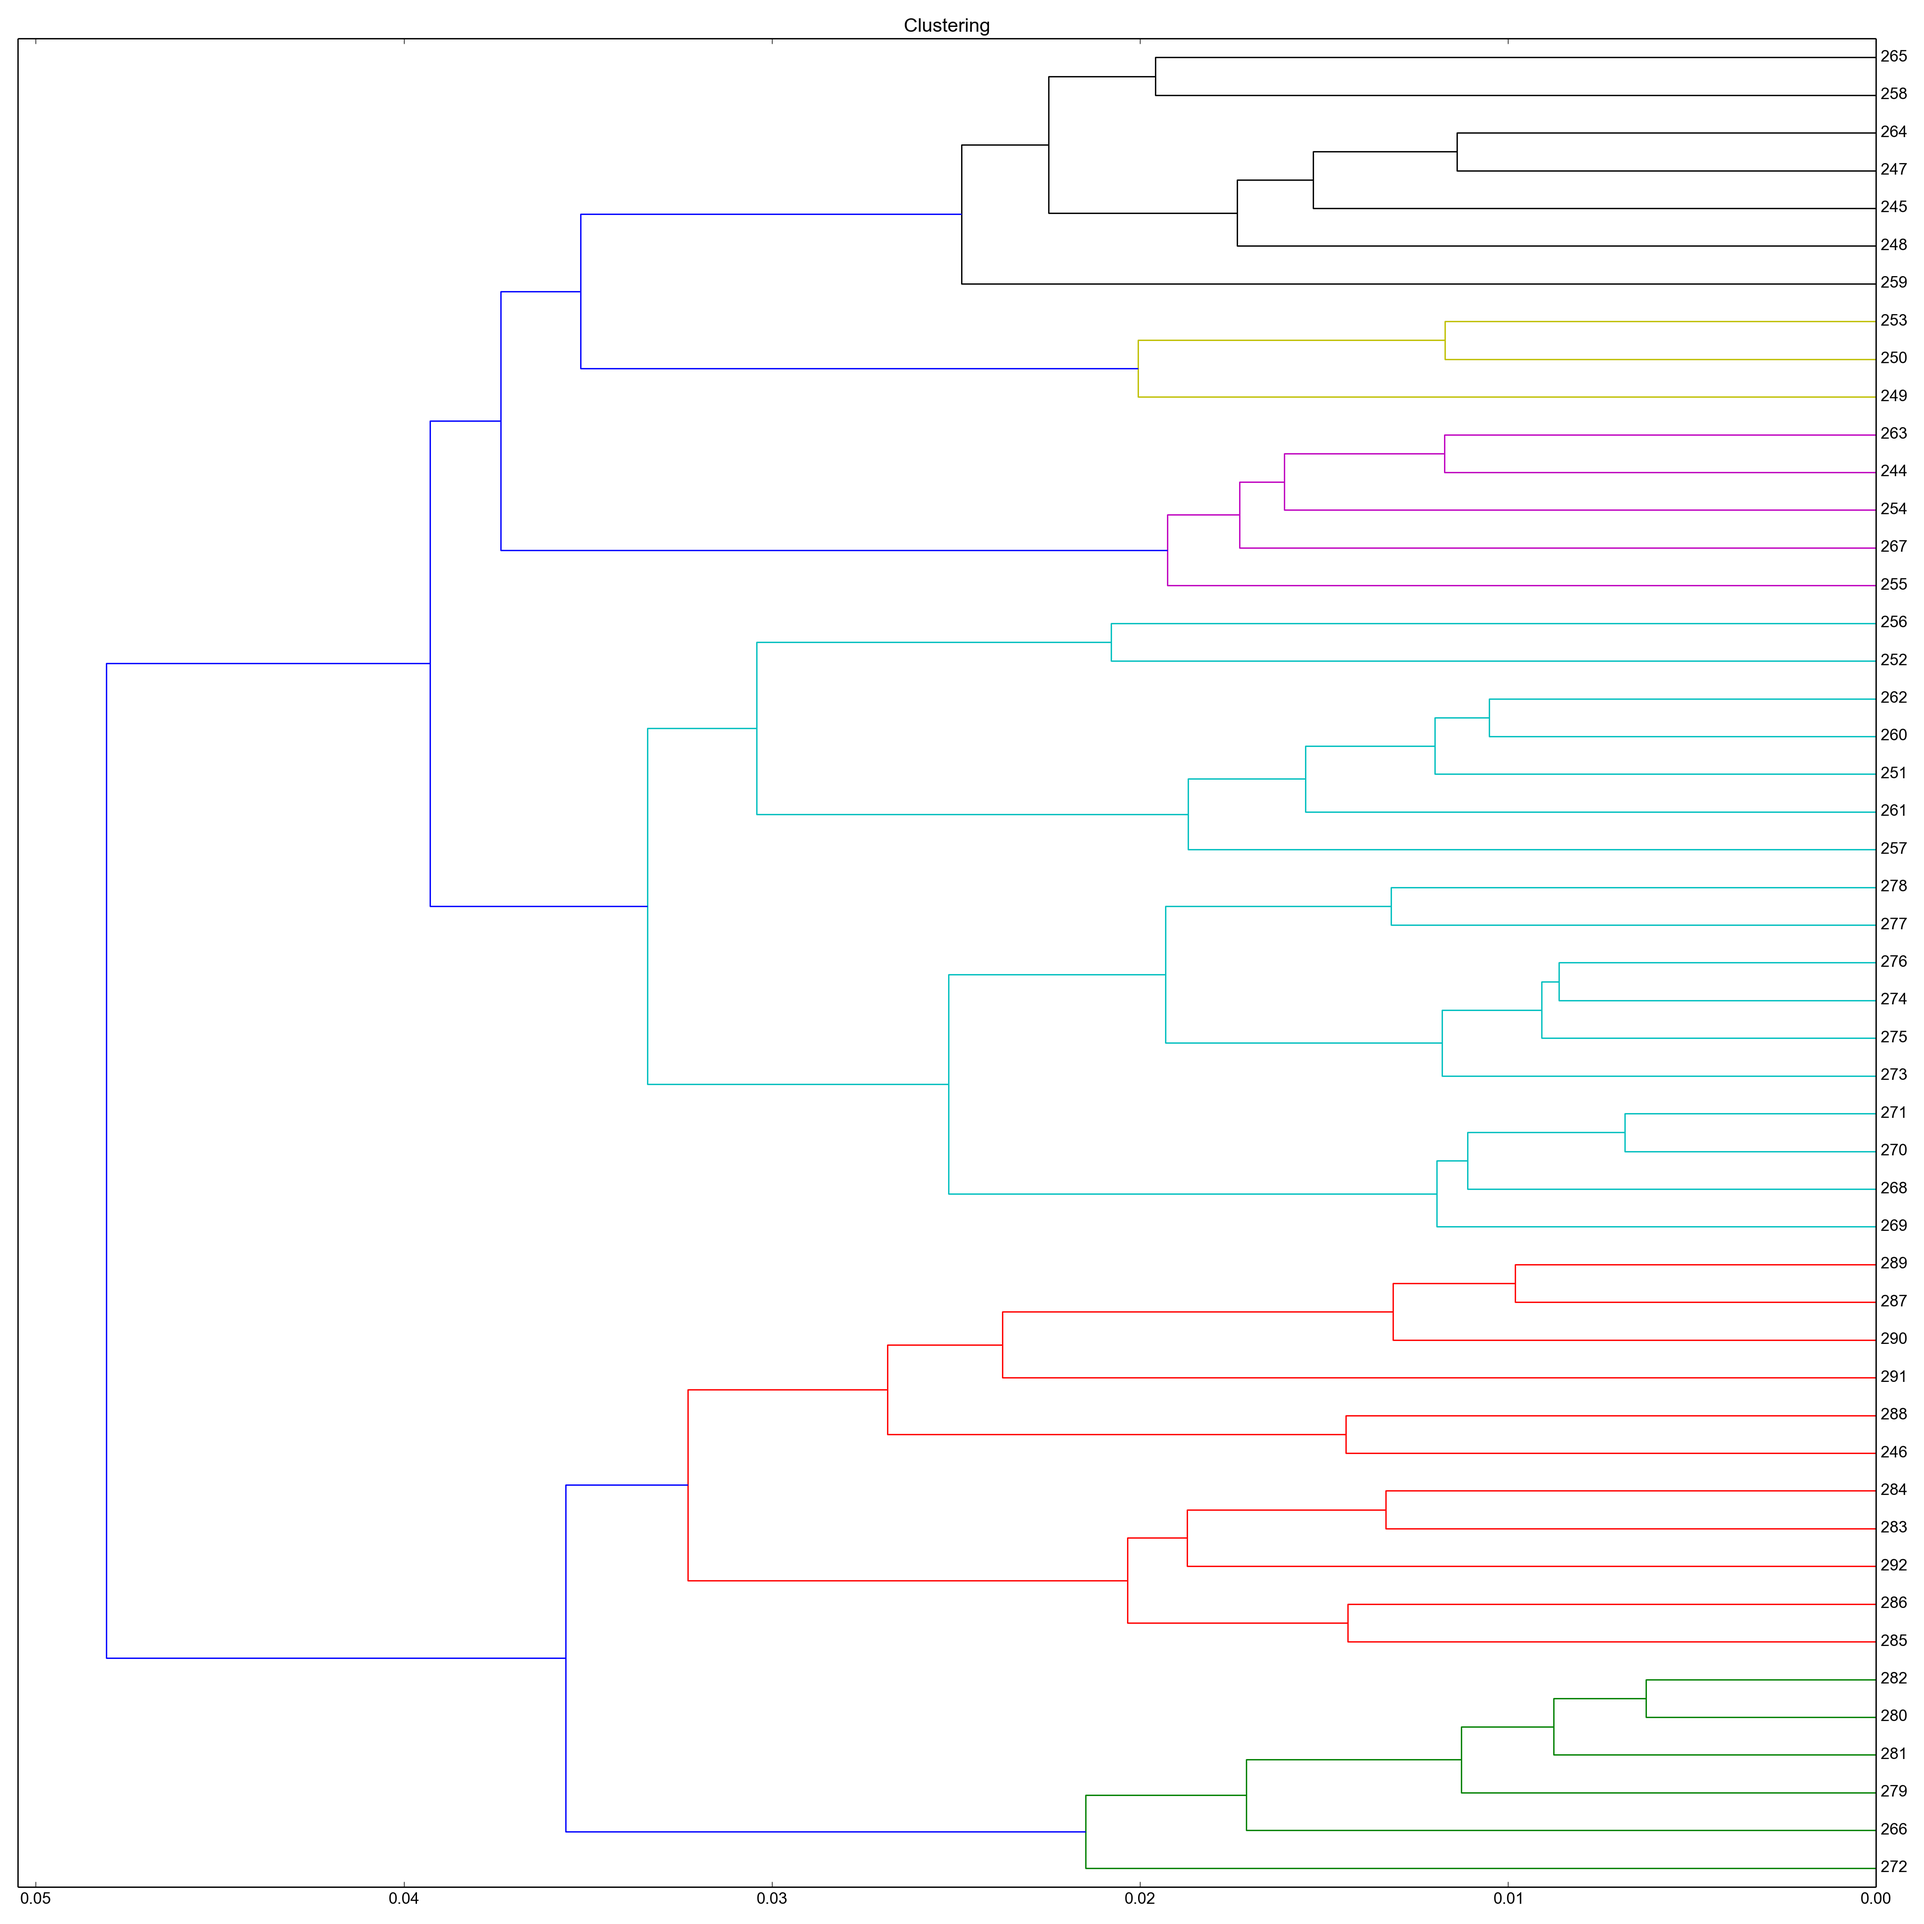
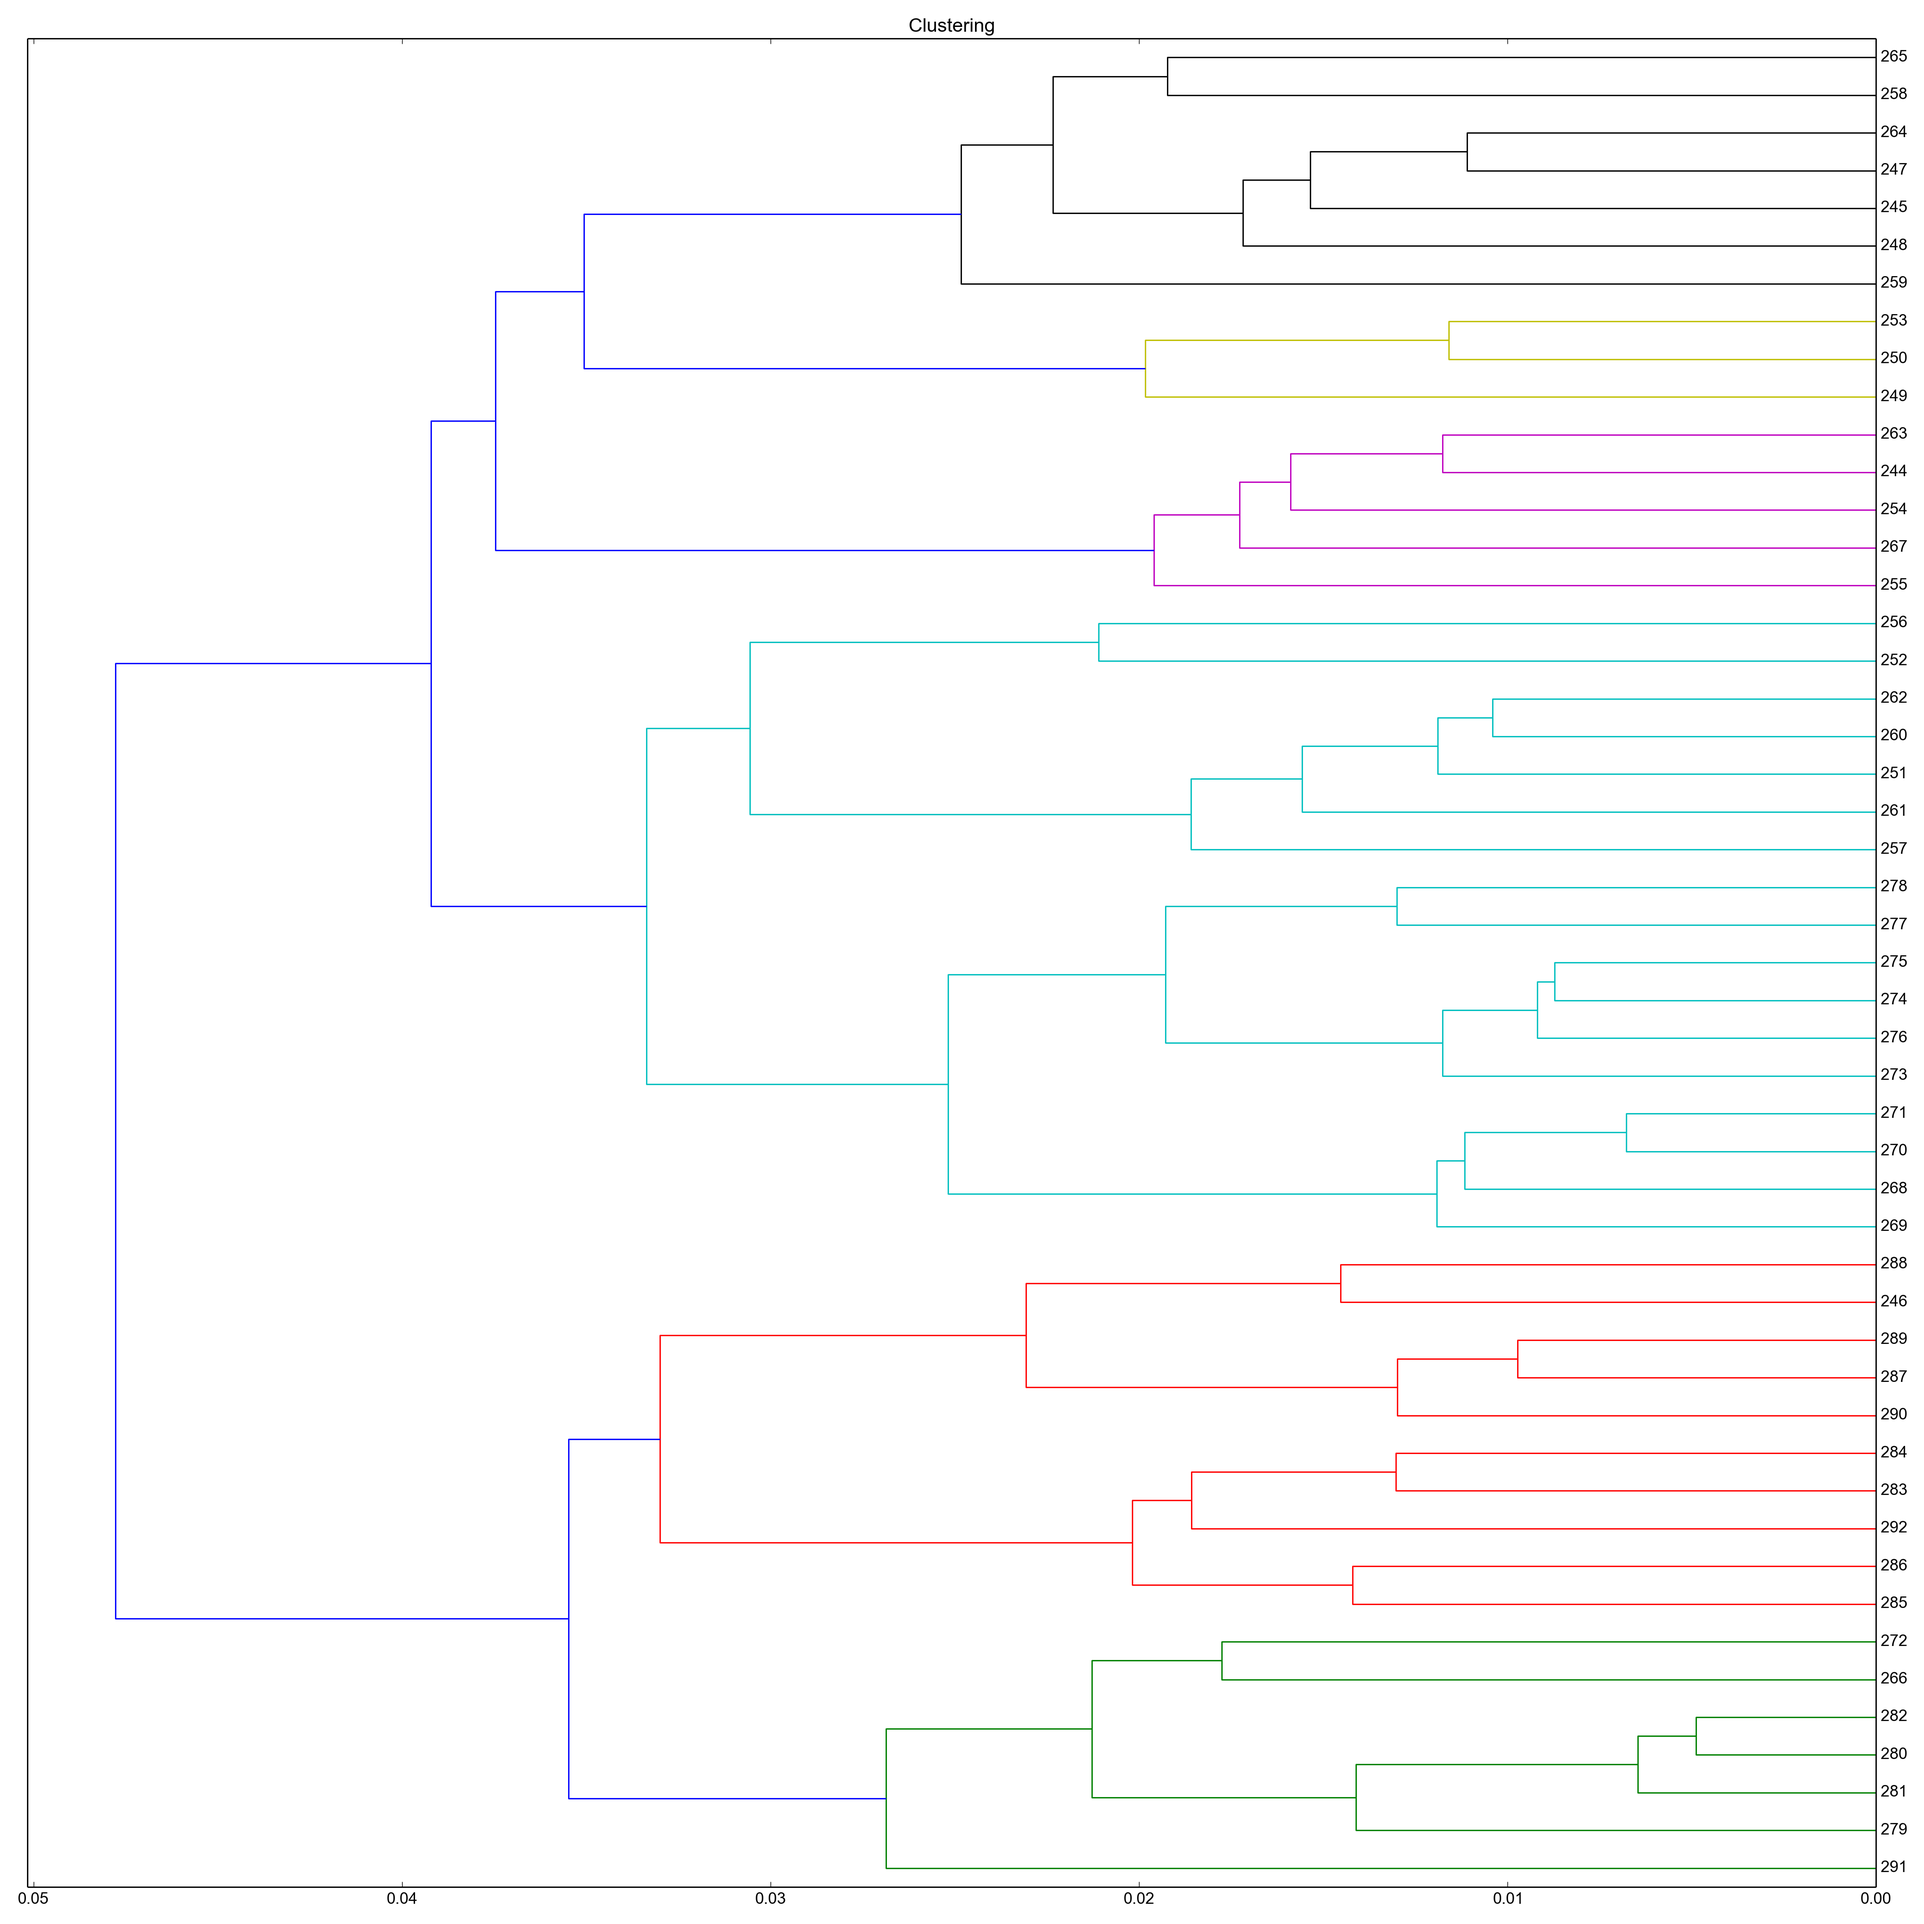
clustering 1.0

Changed region(s): [[0.4688, 0.0, 0.5, 0.0312]]

diff --git a/ClusteringErrors.py b/ClusteringErrors.py
@@ -1,0 +1,100 @@
+def make_clusters(clusters, length, range_start=1):
+    res = [0] * length
+    for i in range(0, len(res)):
+        for j in range(0, len(clusters)):
+            if res[i] != 0:
+                break
+            for document in clusters[j]:
+                if document == range_start + i:
+                    res[i] = j + 1
+                    break
+    return res
+
+
+def recall_precision(val, expert, prog):
+    tp = fp = tn = fn = 0
+    for i in range(0, len(expert)):
+        if prog[i] == val and expert[i] == val:
+            tp += 1
+        elif prog[i] != val and expert[i] != val:
+            tn += 1
+        elif prog[i] == val and expert[i] != val:
+            fp += 1
+        elif prog[i] != val and expert[i] == val:
+            fn += 1
+    recall = precision = F = 0
+    if tp != 0:
+        recall = tp / (tp + fn)
+        precision = tp / (tp + fp)
+        F = 2 * precision * recall / (precision + recall)
+    return F, recall, precision, tp, fn, fp, tn
+
+
+dendrogramm_clusters6 = [
+    [265, 258, 264, 247, 245, 248, 259],
+    [272, 266, 282, 280, 281, 279, 291],
+    [256, 252, 262, 260, 251, 261, 257, 278, 277, 275, 274, 276, 273, 271, 270, 268, 269],
+    [263, 244, 254, 267, 255],
+    [253, 250, 249],
+    [288, 246, 289, 287, 290, 284, 283, 292, 286, 285]
+]
+
+expert_clusters6 = [
+    [245, 246, 247, 255, 256, 257, 258, 264, 291],
+    [254, 244, 266, 272, 279, 280, 281, 282, 282, 283],
+    [248, 249, 250, 251, 252, 253, 261, 265, 270, 271, 273, 274, 275, 276, 277, 278],
+    [259, 260, 262, 263, 267, 268, 269],
+    [284, 285],
+    [286, 287, 288, 289, 290]
+]
+
+dendrogramm_clusters9 = [
+    [256, 252],
+    [253, 250, 249],
+    [262, 260, 251, 261, 257],
+    [265, 258, 264, 247, 245, 248, 259],
+    [263, 244, 254, 267, 255],
+    [278, 277, 275, 274, 276, 273, 271, 270, 268, 269],
+    [272, 266, 282, 280, 281, 279, 291],
+    [284, 283, 292, 286, 285],
+    [288, 246, 289, 287, 290]
+]
+
+expert_clusters9 = [
+    [245, 246, 247, 255, 256, 257, 258, 264, 268, 260, 291],
+    [254, 244, 248, 249, 250, 251, 252, 253],
+    [259, 262, 261],
+    [263, 265],
+    [266, 267, 269, 270, 271],
+    [272, 273, 274, 275, 276, 277, 278],
+    [279, 283, 280, 281, 282],
+    [284, 285],
+    [286, 287, 288, 289, 290]
+]
+
+dendrogramm_clusters = dendrogramm_clusters9
+expert_clusters = expert_clusters9
+
+prog_clusters = make_clusters(dendrogramm_clusters, 293-244, 244)
+exp_clusters = make_clusters(expert_clusters, 293-244, 244)
+print(prog_clusters)
+print(exp_clusters)
+
+print()
+for i in range(1, len(expert_clusters) + 1):
+    print(recall_precision(i, exp_clusters, prog_clusters))
+
+matrix = []
+vec = []
+for clust in expert_clusters:
+    vec = []
+    for dclust in dendrogramm_clusters:
+        val = 0
+        for x in clust:
+            if x in dclust:
+                val += 1
+        vec.append(val)
+    matrix.append(vec)
+
+print()
+[print(vc) for vc in matrix]

diff --git a/util/Drawer.py b/util/Drawer.py
@@ -2,17 +2,14 @@ import matplotlib.pyplot as plot
 
 class Drawer:  # Класс для рисования диаграмм
     @staticmethod
-    def draw_dendrogramm(linkage_matrix, output_file, range_start=1, plot_title="Dendrogramm"):
+    def draw_dendrogramm(linkage_matrix, range_start=1):
         # Нарисовать дендрограмму
         import matplotlib.pyplot as plot
         from scipy.cluster.hierarchy import dendrogram
-        plot.figure(figsize=(20, 20))
-        plot.title(plot_title)  # Заголовок
-        labels=range(range_start, range_start + len(linkage_matrix) + 1)  # Создание подписей столбцов
-        dendrogram(linkage_matrix, orientation="right", labels=labels)  # Создание дендрограммы
-        plot.tight_layout()  # Обрезаются белые поля
-        plot.savefig(output_file, dpi=200)  # Запись в файл
-        plot.close()
+        min = range_start
+        max = range_start + len(linkage_matrix) + 1
+        plot.figure(figsize=(20,20))
+        dendrogram(linkage_matrix, orientation="right", labels=range(min,max))  # Создание дендрограммы
 
     @staticmethod
     def draw_bar_graph(hist_data, range_start=1, step=3, width=0.8, color='blue', drawxticks=True):
@@ -41,9 +38,11 @@ class Drawer:  # Класс для рисования диаграмм
         plot.savefig(file_name, dpi=dpi)
 
     @staticmethod
-    def set_labels(title, xlabel, ylabel):
+    def set_labels(title, xlabel='', ylabel=''):
         # Подпись диаграммы и осей
         plot.title(title)
-        plot.xlabel(xlabel)
-        plot.ylabel(ylabel)
+        if xlabel != '':
+            plot.xlabel(xlabel)
+        if ylabel != '':
+            plot.ylabel(ylabel)
 

diff --git a/util/TextSimilarity.py b/util/TextSimilarity.py
@@ -1,11 +1,11 @@
-class FrenchTextTiling:  # Класс для определения косинусной близости абзацев текста
-    def __init__(self):
+class TextSimilarity:  # Класс для определения косинусной близости абзацев текста
+    def __init__(self, lang):
         # Инициализация
         from nltk.corpus import stopwords
         from nltk.stem.snowball import SnowballStemmer
         from sklearn.feature_extraction.text import TfidfVectorizer
-        self.lang = 'french'  # Язык
-        self.words = stopwords.words(self.lang) + ['fig', 'a', 'f']  # Стоп-слова (союзы, предлоги)
+        self.lang = lang  # Язык
+        self.words = stopwords.words(self.lang) # Стоп-слова (союзы, предлоги)
         self.stemmer = SnowballStemmer(self.lang)  # Класс, выделяющий основные части слов
         self.vectorizer = TfidfVectorizer(min_df=0.1)  # Класс для построения TF-IDF матрицы
 

diff --git a/Clustering.py b/Clustering.py
@@ -1,0 +1,15 @@
+from scipy.cluster.hierarchy import linkage
+
+from util.Drawer import Drawer
+from util.TextSimilarity import TextSimilarity
+from util.TaskReader import TaskReader
+
+task = TaskReader.read("text.txt")  # Чтение задания из файла
+similarity = TextSimilarity('french').get_cosine_similarity(task.text)  # Получение матрицы косинусной близости
+distances = 1 - similarity  # Получение матрицы расстояний
+linkage_matrix = linkage(distances, method='average', metric='cosine')  # Получение матрицы связей
+
+Drawer.draw_dendrogramm(linkage_matrix, range_start=244)
+Drawer.set_labels("Clustering")
+Drawer.save("Clustering.png")
+

diff --git a/Segmentation.py b/Segmentation.py
@@ -1,8 +1,8 @@
-from util.TaskReader import TaskReader
-from util.Drawer import Drawer
-from texttiling.FrenchTextTiling import FrenchTextTiling
-from math import ceil
 from numpy import arange
+
+from util.Drawer import Drawer
+from util.TextSimilarity import TextSimilarity
+from util.TaskReader import TaskReader
 
 
 def recall_precision(cos, bound_val, max_val, expert):
@@ -29,7 +29,7 @@ def recall_precision(cos, bound_val, max_val, expert):
 
 
 task = TaskReader.read("text.txt")
-similarity = FrenchTextTiling().get_cosine_similarity(task.text)
+similarity = TextSimilarity('french').get_cosine_similarity(task.text)
 cosines = [similarity[i][i+1] for i in range(0, len(similarity) - 1)]
 
 expert_bounds = []
